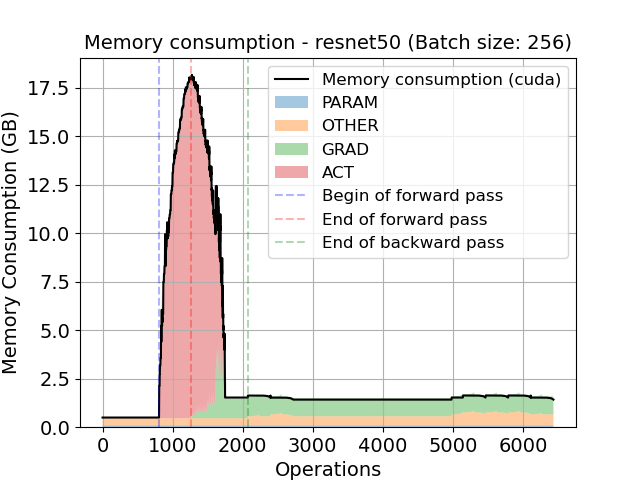
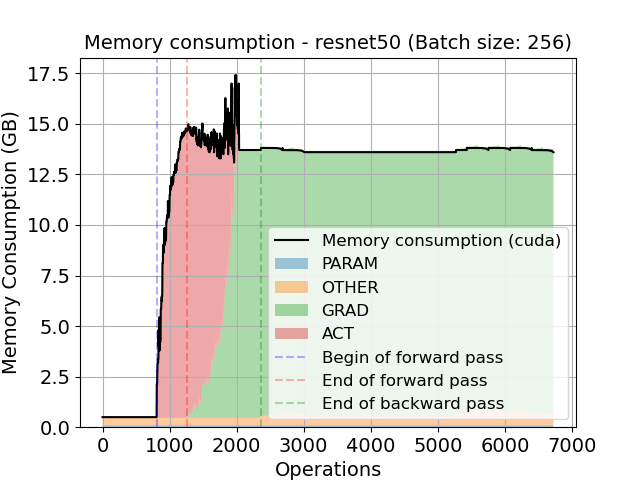
fix some bugs

diff --git a/recompute.py b/recompute.py
@@ -87,21 +87,20 @@ class RecomputePolicy:
         candidates : Set[RecomputeStats] = set([n for n in self.nodes if n.is_intermediate])
         recompute_nodes : List[RecomputeStats] = []
 
+        _, peak_mem = self._simulate_memory(recompute_nodes)
+        sys.stderr.write(f"Initial peak memory usage: {peak_mem/1e9:.2f}GB\n")
+
         # continue until no candidates left
         # or we achieved our memory goal
-        while len(candidates) > 0: 
+        while len(candidates) > 0 and peak_mem > memory_cap: 
             # check peak memory to see if we can stop
             _, peak_mem = self._simulate_memory(recompute_nodes)
-            # sys.stderr.write(f'peak_mem: {peak_mem}\n')
-            if memory_cap > peak_mem:
-                
-                break
 
             # add the max recomputation_ratio candidate 
             # to recompute nodes and remove from candidates
             cand = self._max_recomp_candidate(candidates)
-            
             candidates.remove(cand)
+            
             # update existing recomputations
             recomp_cnt = 1
             for rp in recompute_nodes:
@@ -150,10 +149,10 @@ class RecomputePolicy:
         max_candidate = next(iter(candidates))
 
         for c in candidates:
-            if c.recompute_ratio > max_candidate.recompute_count:
+            if c.recompute_ratio > max_candidate.recompute_ratio:
                 max_candidate = c
 
-        return c
+        return max_candidate
 
 
     # simulate memory
@@ -187,22 +186,21 @@ class RecomputePolicy:
 
                 memory_usage[start_fw:end_fw] += node.size_agg
                 memory_usage[start_bw:end_bw] += node.size_agg
-                continue
+            else:
+                start = node.rank
 
-            start = node.rank
+                # for placeholders, activity starts at 0
+                if node.op == 'placeholder':
+                    start = 0
+                
+                end = len(self.nodes)
 
-            # for placeholders, activity starts at 0
-            if node.op == 'placeholder':
-                start = 0
-            
-            end = len(self.nodes)
-
-            # if there is a last use for this node, set 
-            # that as the end
-            if not node.last_use is None:
-                end = self.name_to_rank[node.last_use]
-            
-            memory_usage[start:end] += node.size_agg
+                # if there is a last use for this node, set 
+                # that as the end
+                if node.last_use is not None:
+                    end = self.name_to_rank[node.last_use] + 1
+                
+                memory_usage[start:end] += node.size_agg
         
         # return memory_usage, memory_usage[forward_start:backward_end].max()
         return memory_usage, memory_usage.max()

diff --git a/activation_checkpoint.py b/activation_checkpoint.py
@@ -8,7 +8,6 @@ from graph_tracer import SEPFunction
 
 from recompute import *
 
-
 # We define a custom function that takes in two weight matrices that require
 # gradients to be computed and an input data matrix. The function returns the
 # gradients of the weight matrices with respect to the loss (sum in our
@@ -94,9 +93,9 @@ def activation_checkpointing(gm: fx.GraphModule, recompute_list : List[Recompute
             
             # get the recomputation subgraph using these inputs and 
             # outputs
-            sys.stderr.write(f'{recomp_node}\n')
-            sys.stderr.write(f'{node_to_recompute}\n')
-            sys.stderr.write(f'{nodes_required_to_recompute}\n\n')
+            # sys.stderr.write(f'{recomp_node}\n')
+            # sys.stderr.write(f'{node_to_recompute}\n')
+            # sys.stderr.write(f'{nodes_required_to_recompute}\n\n')
 
             recompute_subgraph = _extract_graph_with_inputs_outputs(
                 joint_graph=gm.graph,

diff --git a/graph_prof.py b/graph_prof.py
@@ -61,10 +61,10 @@ class NodeStats:
     runtime_agg : float | None = None
 
     # result related
-    result_ptrs : List[int] = field(default_factory=int)
+    result_ptrs : List[int] = field(default_factory=list)
 
     # src related
-    inputs : List[str]  = field(default_factory=str)
+    inputs : List[str]  = field(default_factory=list)
 
 # This is an example graph_profiler that extends the fx.Interpreter class, it
 # will perform graph execution by running the graph node by node.
